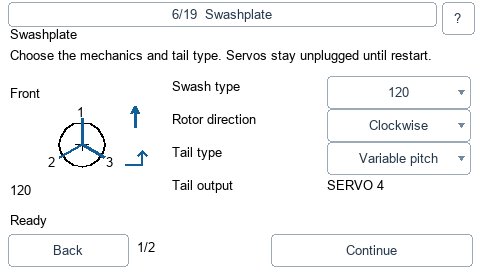
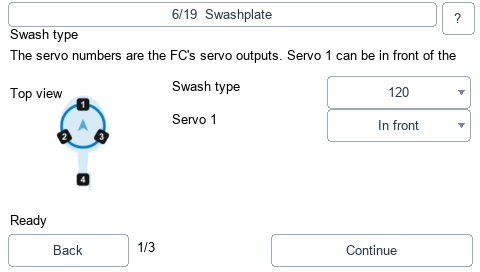
feat(setup): Board orientation and Swashplate follow the Configurator's parts
Board orientation now has the Configurator's four parts as cards: blades off and
servos unplugged, the accelerometer calibrated on a level helicopter, the board
orientation found with the tail lifted 20 degrees, and the live check. Each card
names its picture (heliBladesOff, heliLevel, heliLift) instead of deriving it from
the step number; the motor and spin-test cards show blades off, and the finish
card no longer shows a helicopter, since the Configurator's flying pose has no
picture here.

Swashplate is three cards, as the Configurator's step has three parts: swashplate
type with servo 1 in front or behind, main rotor direction, and the tail with its
output. Each card shows the Configurator's drawing of the chosen value and swaps it
in the existing scene when the value changes; the line sketch they replace is gone.

verify.lua checks that every swash type and servo-1 position shows its own layout,
and that each swash card's picture follows its value; the contracts use the new
card order. Docs describe the cards, and the previews of the changed steps are
rendered again.

diff --git a/docs/pages/helicopter_setup.md b/docs/pages/helicopter_setup.md
@@ -108,9 +108,15 @@ unplug servos, restart, then confirm the test prerequisites.
 
 On 320- and 480-pixel displays, illustrated tasks put a compact mechanical sketch
 beside at most four control rows. The 800×480 layout has a separate instruction
-column and a larger sketch. Numbered swash links follow the selected 120/135/140/90L/90V
-geometry without rebuilding the scene; Direct shows each servo function instead.
-Board orientation, servo lift/neutral, roll/pitch/collective response, swash levelling,
+column and a larger sketch. The side-view cards show a picture of the helicopter in the
+Configurator wizard's three poses: blades crossed out where they must come off (Board
+orientation, Motor & ESC, ESC & spin test), level for the accelerometer calibration, and the
+tail lifted 20 degrees for finding the board orientation. The three Swashplate cards show the
+Configurator's drawings of the chosen value: the servo layout seen from above (numbered
+servos, servo 1 in front or behind, servo 4 with a servo tail; Direct names each servo's
+function), the main rotor turning, and the kind of tail. A picture changes with its value
+without rebuilding the scene.
+Servo lift/neutral, roll/pitch/collective response, swash levelling,
 blade-pitch reference and opposing gyro correction have distinct diagrams.
 The final Board orientation card has its own layout: a live helicopter above the
 confirmation on small screens, and a larger model beside it on 800×480. Tilt the
@@ -139,7 +145,7 @@ the switch while the wizard inhibits arming. The profile-switch reference stays
 still. Servo pulse references cache custom Hz/width geometry on settings edits;
 the native getters do not generate waves. Timing beyond the pulse limit displays
 a restart/readback hint instead of a physically impossible waveform. Receiver bars and control-command meters already follow live inputs;
-swash diagrams follow the selected geometry. All other mechanical drawings remain
+swash, rotor and tail pictures follow the selected values. All other mechanical drawings remain
 test references: commanded output or board attitude cannot measure actual servo,
 swash, blade or gyro-correction movement. Verify these on the real helicopter.
 The short instruction area may show only its first lines; **?** opens the full text.
@@ -148,12 +154,12 @@ The short instruction area may show only its first lines; **?** opens the full t
 
 | # | Step | Controls and checks |
 | --- | --- | --- |
-| 1 | Board orientation | Confirm servos unplugged and all blades removed. Calibrate the accelerometer with the model level and still. Detect orientation by lifting the tail, or enter roll, pitch and yaw in degrees. After restart, compare the live helicopter model with real roll/pitch movements and confirm the directions. Automatic alignment requires firmware support. |
+| 1 | Board orientation | Four cards. Confirm servos unplugged and all blades removed. Calibrate the accelerometer with the model standing level and still. Detect orientation by lifting the tail, or enter roll, pitch and yaw in degrees. After restart, compare the live helicopter model with real roll/pitch movements and confirm the directions. Automatic alignment requires firmware support. |
 | 2 | Receiver | Keep the established receiver UART; protocol configuration remains available, and use USB Configurator for receiver wiring detection (the trial interrupts the radio MSP link). Save & reboot is available here. Detect collective, roll, pitch, yaw, the throttle switch (hold / governor) and the arm switch one control at a time, or select ELRS, FrSky, Futaba/Hitec or DSM/Graupner/JR presets. Check FC channel numbers and rising values for roll/yaw right, pitch forward and collective up. Detection uses a fresh pre-click snapshot, so an immediate stick/switch movement is retained. Record all throttle-switch positions (or both proportional endpoints), starting and finishing OFF, with at least 300 µs travel; Use measured range adds a 20 µs margin at each end. Zero limits select firmware defaults. Throttle is low compares the mapped input with the low threshold; it is not permission to arm. The ELRS link cards compare the FC's declared rate and telemetry ratio with the transmitter module, probe the link, and align either side after confirmation. Module pickers offer supported 333 Hz, 500 Hz, D500 and 1:4, 1:8, 1:16, 1:32 options; save wizard changes first, keep the model disarmed, and keep telemetry running. |
 | 3 | Mode switches | Assign ARM, RESCUE and TRAINER when the FC exposes them. Move the switch to its intended ON position; a clear AUX movement and settled position determine the active window. ARM is read from AUX1 only, the arm channel set in step 2, because ExpressLRS 4.x also outputs its arm flag on CH14 (AUX9), which moves with the arm switch. Reassign or Remove an assignment. ARM assignment is required. No unrelated mode slots are overwritten. |
 | 4 | Profiles & gain | Detect a two- or three-position switch; select PID + rate profiles, PID only or None. Visit the positions and Use switch. Optional gain uses a knob, or four trim-button values on one spare channel. Mapped gain is 50–150%; button gain is ±5%, bounded to 25–200%. The trim guide gives MAX mix weights 30/40/50/60%, with 100% at rest. Configure those mixes in EdgeTX; this page does not rewrite the transmitter model. |
 | 5 | Rates | Select each rate profile and Keep current, Trainer (180/270°/s), Sport (250/400°/s), or 3D (400/600°/s). Only switch-selected profiles, or the active profile, are offered. Suggest fills a three-position switch in its position order. Collective pitch is preserved. Profiles are selected, read and written sequentially, then the original rate profile is restored. |
-| 6 | Swashplate | Select Direct, 120, 135, 140, 90L or 90V; clockwise/counterclockwise main rotor; variable-pitch, motorised or bidirectional tail. Tail changes reset the yaw input rate to ±250 or ±1000. Switching between servo and motor tail sets TTA to 0 or 100 on every PID profile; motor-to-bidirectional changes preserve custom TTA. If supported and required, the tail pin is moved between SERVO 4 and MOTOR 2; a refusal blocks advance. A missing command is reported as unsupported. |
+| 6 | Swashplate | Three cards, as in the Configurator: select Direct, 120, 135, 140, 90L or 90V and, for 120/135/140, whether servo 1 sits in front of the shaft or behind it; the main rotor direction, clockwise or counterclockwise seen from above; the variable-pitch, motorised or bidirectional tail with the tail output it uses. Tail changes reset the yaw input rate to ±250 or ±1000. Switching between servo and motor tail sets TTA to 0 or 100 on every PID profile; motor-to-bidirectional changes preserve custom TTA. If supported and required, the tail pin is moved between SERVO 4 and MOTOR 2; a refusal blocks advance. A missing command is reported as unsupported. |
 | 7 | Servo type | Servos must be unplugged. Choose cyclic and tail groups separately: 50 Hz/1520 µs, 333 Hz/1520 µs or 560 Hz/760 µs. Changing pulse band resets centre, travel and scale to the matching defaults. Frame-rate changes require restart. Only the PWM servos belonging to the selected swash/tail are used; bus channels are excluded.  Custom 25–5000 Hz fields are separate for cyclic/tail and preserve centre, travel and scale. Mixed groups are explicit. Manufacturer limits apply; firmware may reduce the rate for pulse limits/shared timers, so verify after restart. Separate cards switch geometry correction for all cyclic servos and, with a servo tail, for the tail servo alone (bit 1; the reverse bit is kept). It turns the servo arm's arc into straight link movement. Use it with the arm at 90 degrees to the link at centre and large servo travel. Leave it off if the arm is not at 90 degrees at centre, a bellcrank or the mechanics already make the movement linear, or the helicopter manual says so. It changes travel near the end stops: recheck blade pitch and tail limits after switching it. No restart is needed. Motorised tails have no tail-servo choice. |
 | 8 | Governor | Off, Limit, Direct, Electric or Nitro, plus Normal, Switch or Function throttle. Switch requires Electric or Nitro. The fast-RPM warning requires motor poles plus an RPM sensor or bidirectional DShot; serial ESC telemetry does not meet that requirement. |
 | 9 | Motor & ESC | Choose throttle protocol, motor pole counts and bidirectional DShot. Enter motor pinion/main gear tooth counts and tail input/output gears for a servo tail, or tail motor poles for a motor tail. Castle telemetry and the ESC_SENSOR feature are kept consistent. Set up a new ESC first (BEC voltage, motor timing, ESC governor off with the FC governor, and direction) under Configuration > Setup > ESC & Motors > ESC Tools for AM32, BLHeli_S, Bluejay, Flyrotor, Hobbywing V5, OMP, Scorpion, XDFly, YGE and ZTW; entries are available when the FC's ESC telemetry protocol matches. Where the Suite can open pages from a page, an **Open ESC Tools** button goes there; an unsaved change in the wizard has to be saved or discarded first. |
@@ -393,11 +399,14 @@ record the function inventory, behavior contracts and independent golden vectors
 The preview images are approximate renders of the actual scene definitions, using
 desktop fonts. They are not native EdgeTX screenshots or radio acceptance evidence.
 
-[Compact live orientation](../images/helicopter_setup/01-small-task-3.png) ·
+[Compact live orientation](../images/helicopter_setup/01-small-task-4.png) ·
 [Compact roll movement](../images/helicopter_setup/motion-attitude-roll-small.gif) ·
 [Compact pitch movement](../images/helicopter_setup/motion-attitude-pitch-small.gif) ·
 [320×240 roll movement](../images/helicopter_setup/motion-attitude-roll-narrow.gif) ·
-[800×480 orientation](../images/helicopter_setup/01-large-task-3.png)
+[800×480 orientation](../images/helicopter_setup/01-large-task-4.png) ·
+[Swash layout](../images/helicopter_setup/06-small.png) ·
+[Rotor direction](../images/helicopter_setup/06-small-task-2.png) ·
+[Tail](../images/helicopter_setup/06-small-task-3.png)
 
 [FC input directions](../images/helicopter_setup/02-small-task-3.png) ·
 [Throttle-switch endpoints](../images/helicopter_setup/02-small-task-4.png) ·

diff --git a/release-notes/helicopter-wizard-artwork.build.md b/release-notes/helicopter-wizard-artwork.build.md
@@ -1,1 +1,1 @@
-- Add the helicopter setup wizard's illustrations: 112 light/dark images drawn from the Configurator's wizard and three side views of the helicopter, with their sources and a reproducible export under `artwork/helicopter_setup/`. The cards that show the helicopter from the side now draw these pictures (`helicopter_setup`).
+- Add the helicopter setup wizard's illustrations: 112 light/dark images drawn from the Configurator's wizard and three side views of the helicopter, with their sources and a reproducible export under `artwork/helicopter_setup/`. Board orientation and Swashplate follow the Configurator's parts with these pictures, and the motor and spin-test cards show the blades-off view (`helicopter_setup`).
